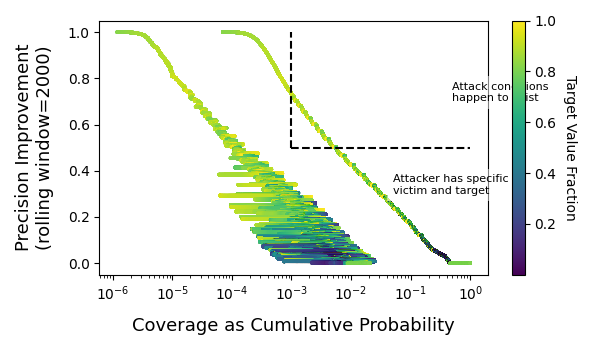
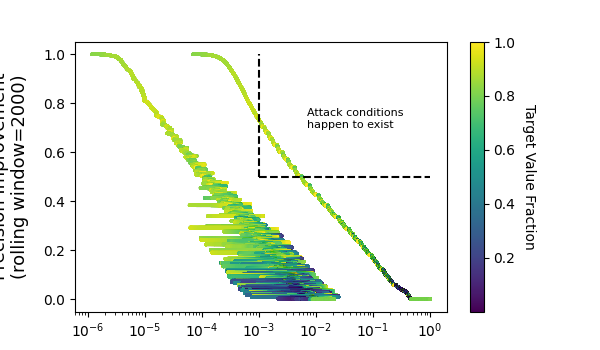
asd

diff --git a/suppress_threshold_attack.py b/suppress_threshold_attack.py
@@ -278,8 +278,8 @@ def plot_move_avg(df):
     #plt.plot(df_sorted['cdf_to_capt'], df_sorted['moving_avg_pi_fl'], label="Attacker has specific\nvictim and target")
     plt.hlines(0.5, 0.001, 1, colors='black', linestyles='--')
     plt.vlines(0.001, 0.5, 1.0, colors='black', linestyles='--')
-    plt.text(0.007, 0.7, "Attack conditions\nhappen to exist", fontsize=8, bbox=dict(facecolor='white', alpha=0.5, edgecolor='none'))
-    plt.text(0, 0.3, "Attacker has specific\nvictim and target", fontsize=8, bbox=dict(facecolor='white', alpha=0.5, edgecolor='none'))
+    plt.text(0.006, 0.6, "Attack conditions\nhappen to exist", fontsize=8, bbox=dict(facecolor='white', alpha=0.5, edgecolor='none'))
+    plt.text(0.00001, 0.3, "Attacker has specific\nvictim and target", fontsize=8, bbox=dict(facecolor='white', alpha=0.5, edgecolor='none'))
     cbar = plt.colorbar(scatter1)
     cbar.set_label('Target Value Fraction', rotation=270, labelpad=15)
     plt.xscale('log')
